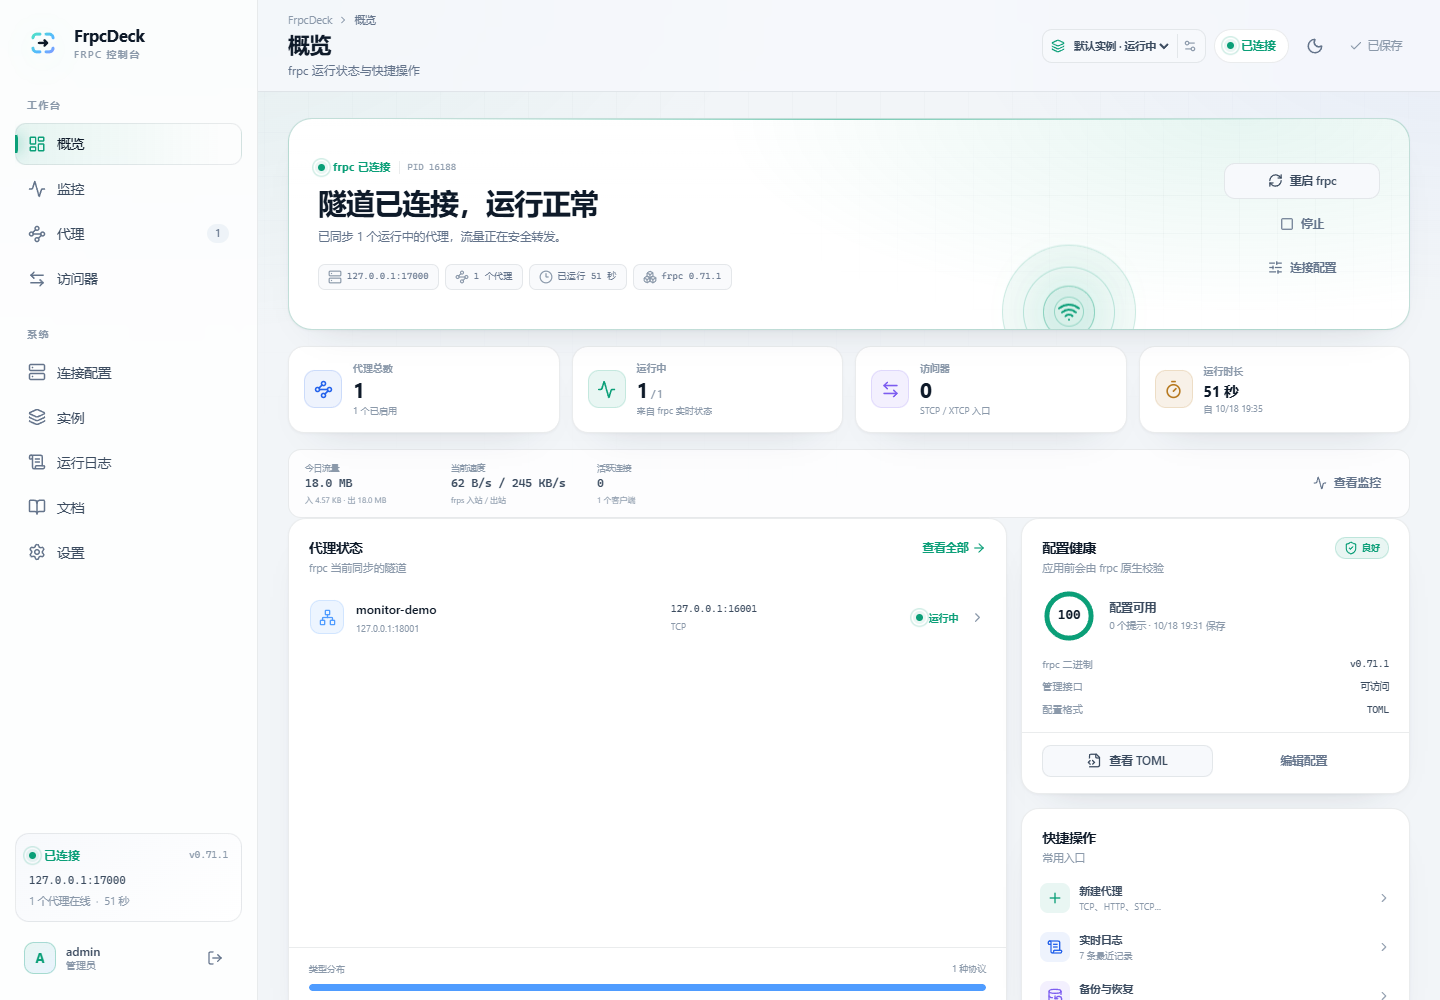
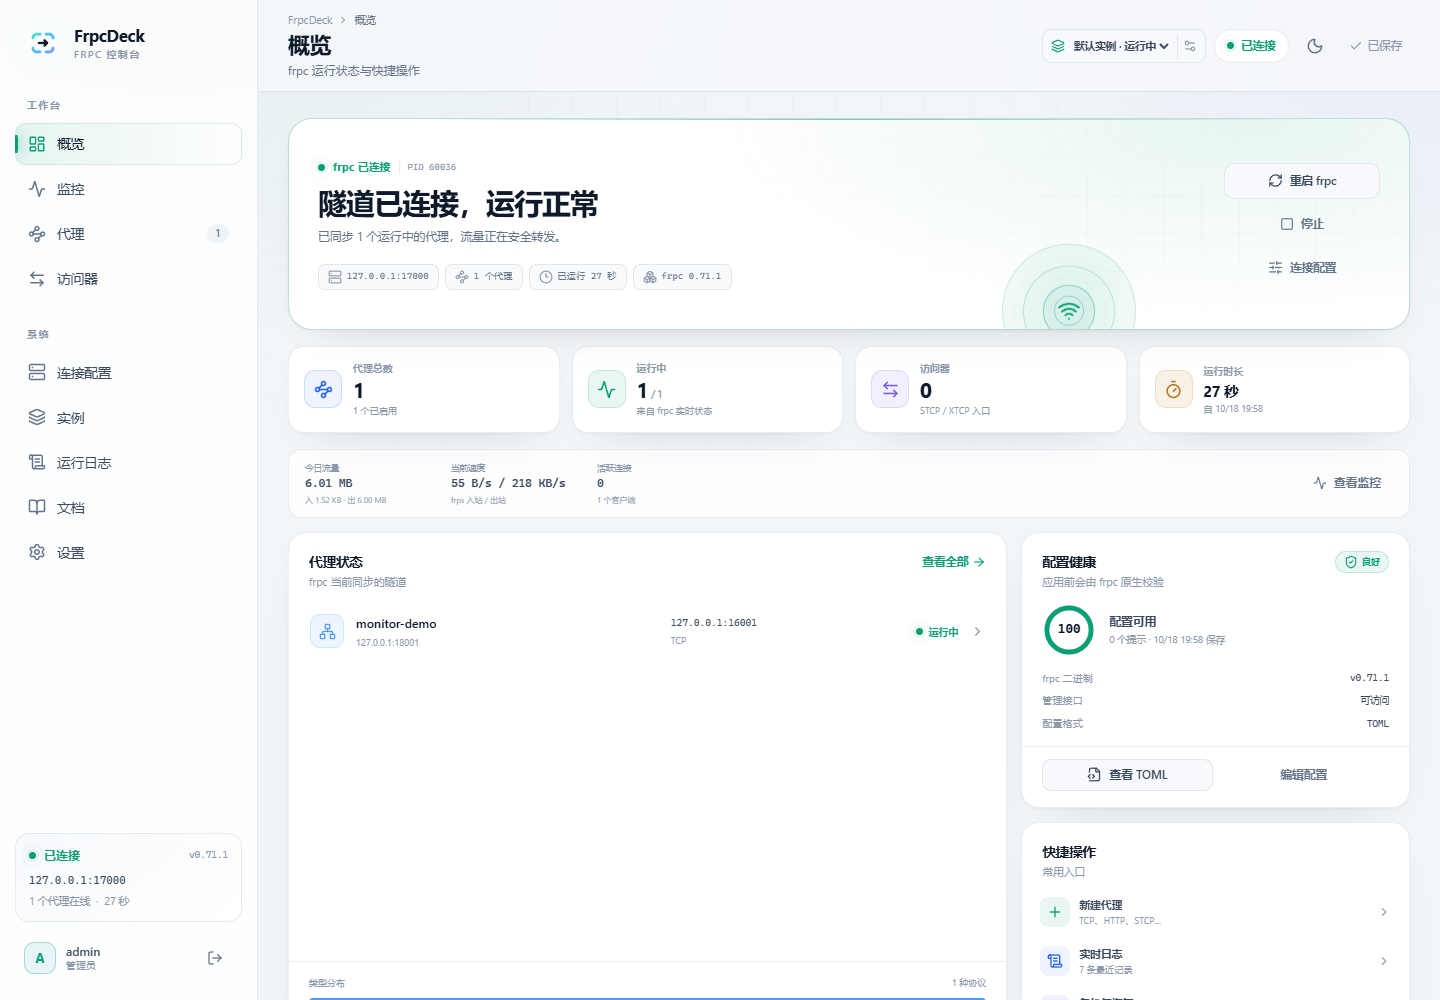
fix: space dashboard monitor strip

diff --git a/web/src/pages/LoginPage.vue b/web/src/pages/LoginPage.vue
@@ -21,7 +21,7 @@
           <span>FrpcDeck</span>
           <small>frpc control surface</small>
         </div>
-        <span class="login-version">v{{ store.app.version || '3.2.0' }}</span>
+        <span class="login-version">v{{ store.app.version || '3.2.1' }}</span>
       </div>
 
       <div class="login-hero">
@@ -156,7 +156,7 @@
         </div>
 
         <div class="login-card-foot">
-          <span>FrpcDeck {{ store.app.version || '3.2.0' }}</span>
+          <span>FrpcDeck {{ store.app.version || '3.2.1' }}</span>
           <span>frpc {{ store.frpc.version || '0.71.1' }}</span>
         </div>
       </div>

diff --git a/web/src/styles/pages.css b/web/src/styles/pages.css
@@ -4164,7 +4164,7 @@ a.onboarding-step:hover {
   display: flex;
   align-items: center;
   gap: 26px;
-  margin-top: 10px;
+  margin: 10px 0 14px;
   padding: 11px 16px;
   border: 1px solid var(--line);
   border-radius: var(--radius-md);

diff --git a/docs/deployment.md b/docs/deployment.md
@@ -18,7 +18,7 @@ FrpcDeck 提供 GHCR 公开镜像，支持 `linux/amd64` 和 `linux/arm64`：
 
 ```text
 ghcr.io/luqijian/frpcdeck:latest
-ghcr.io/luqijian/frpcdeck:3.2.0
+ghcr.io/luqijian/frpcdeck:3.2.1
 ```
 
 镜像页面：<https://github.com/Luqijian/FrpcDeck/pkgs/container/frpcdeck>
@@ -54,7 +54,7 @@ docker run -d \
   ghcr.io/luqijian/frpcdeck:latest
 ```
 
-> 使用预构建镜像时，`IMAGE_TAG` 控制 Compose 拉取的标签；`latest` 跟随主分支，生产环境建议固定为 `3.2.0`。
+> 使用预构建镜像时，`IMAGE_TAG` 控制 Compose 拉取的标签；`latest` 跟随主分支，生产环境建议固定为 `3.2.1`。
 
 ## 快速开始（无需克隆仓库）
 
@@ -71,7 +71,7 @@ name: frpcdeck
 
 services:
   frpcdeck:
-    image: ghcr.io/luqijian/frpcdeck:${IMAGE_TAG:-3.2.0}
+    image: ghcr.io/luqijian/frpcdeck:${IMAGE_TAG:-3.2.1}
     container_name: frpcdeck
     restart: unless-stopped
     stop_grace_period: 15s
@@ -97,7 +97,7 @@ services:
 WEBUI_PORT=8080
 
 # 固定版本；latest 会跟随主分支
-IMAGE_TAG=3.2.0
+IMAGE_TAG=3.2.1
 
 # 时区
 TZ=Asia/Shanghai
@@ -159,7 +159,7 @@ name: frpcdeck
 
 services:
   frpcdeck:
-    image: ghcr.io/luqijian/frpcdeck:${IMAGE_TAG:-3.2.0}
+    image: ghcr.io/luqijian/frpcdeck:${IMAGE_TAG:-3.2.1}
     container_name: frpcdeck
     restart: unless-stopped
     stop_grace_period: 15s
@@ -215,7 +215,7 @@ docker compose up -d
 
 | 变量 | 默认值 | 说明 |
 | --- | --- | --- |
-| `IMAGE_TAG` | `latest` | Compose 使用的 GHCR 镜像标签，例如 `3.2.0`。 |
+| `IMAGE_TAG` | `latest` | Compose 使用的 GHCR 镜像标签，例如 `3.2.1`。 |
 | `PORT` | `8080` | 面板监听端口（容器内）。 |
 | `HOST` | `0.0.0.0` | 面板监听地址。 |
 | `DATA_DIR` | `/data`（镜像内） | 配置、认证、备份、会话密钥的持久化目录。 |
@@ -337,7 +337,7 @@ docker compose pull
 docker compose up -d
 ```
 
-升级到固定版本：在 `.env` 中设置 `IMAGE_TAG=3.2.0`（或新版本号），然后重新执行上面的命令。
+升级到固定版本：在 `.env` 中设置 `IMAGE_TAG=3.2.1`（或新版本号），然后重新执行上面的命令。
 
 - 数据在 `./data`，重建容器不会丢失。
 - 迁移服务器时，把整个 `data/` 目录复制到新服务器即可（注意权限 0600）。

diff --git a/CHANGELOG.md b/CHANGELOG.md
@@ -19,6 +19,12 @@ and this project adheres to [Semantic Versioning](https://semver.org/spec/v2.0.0
 
 - Nothing yet.
 
+## [3.2.1] - 2026-10-18
+
+### Fixed
+
+- Add spacing between the dashboard traffic strip and the proxy/config cards below it.
+
 ## [3.2.0] - 2026-10-18
 
 ### Added
@@ -195,7 +201,8 @@ Initial public release.
 - Sensitive configuration files are written with mode `0600`; the data directory uses `0700`.
 - The frpc admin API is bound to `127.0.0.1` by default.
 
-[Unreleased]: https://github.com/Luqijian/FrpcDeck/compare/v3.2.0...HEAD
+[Unreleased]: https://github.com/Luqijian/FrpcDeck/compare/v3.2.1...HEAD
+[3.2.1]: https://github.com/Luqijian/FrpcDeck/compare/v3.2.0...v3.2.1
 [3.2.0]: https://github.com/Luqijian/FrpcDeck/compare/v3.1.1...v3.2.0
 [3.1.1]: https://github.com/Luqijian/FrpcDeck/compare/v3.1.0...v3.1.1
 [3.1.0]: https://github.com/Luqijian/FrpcDeck/compare/v3.0.0...v3.1.0

diff --git a/docs/release-notes/v3.2.1.md b/docs/release-notes/v3.2.1.md
@@ -1,0 +1,19 @@
+# FrpcDeck v3.2.1
+
+这是一个小的界面修复版本。
+
+## 修复
+
+- 概览页的流量监控条与下方「代理状态 / 配置健康」卡片之间缺少间隔。
+- 增加 14px 垂直间距，桌面端和移动端保持一致。
+
+<img src="https://raw.githubusercontent.com/Luqijian/FrpcDeck/main/docs/screenshots/dashboard.png" alt="概览页间距修复" width="720">
+
+## 升级
+
+```bash
+docker compose pull
+docker compose up -d
+```
+
+已有配置和数据目录不受影响。
